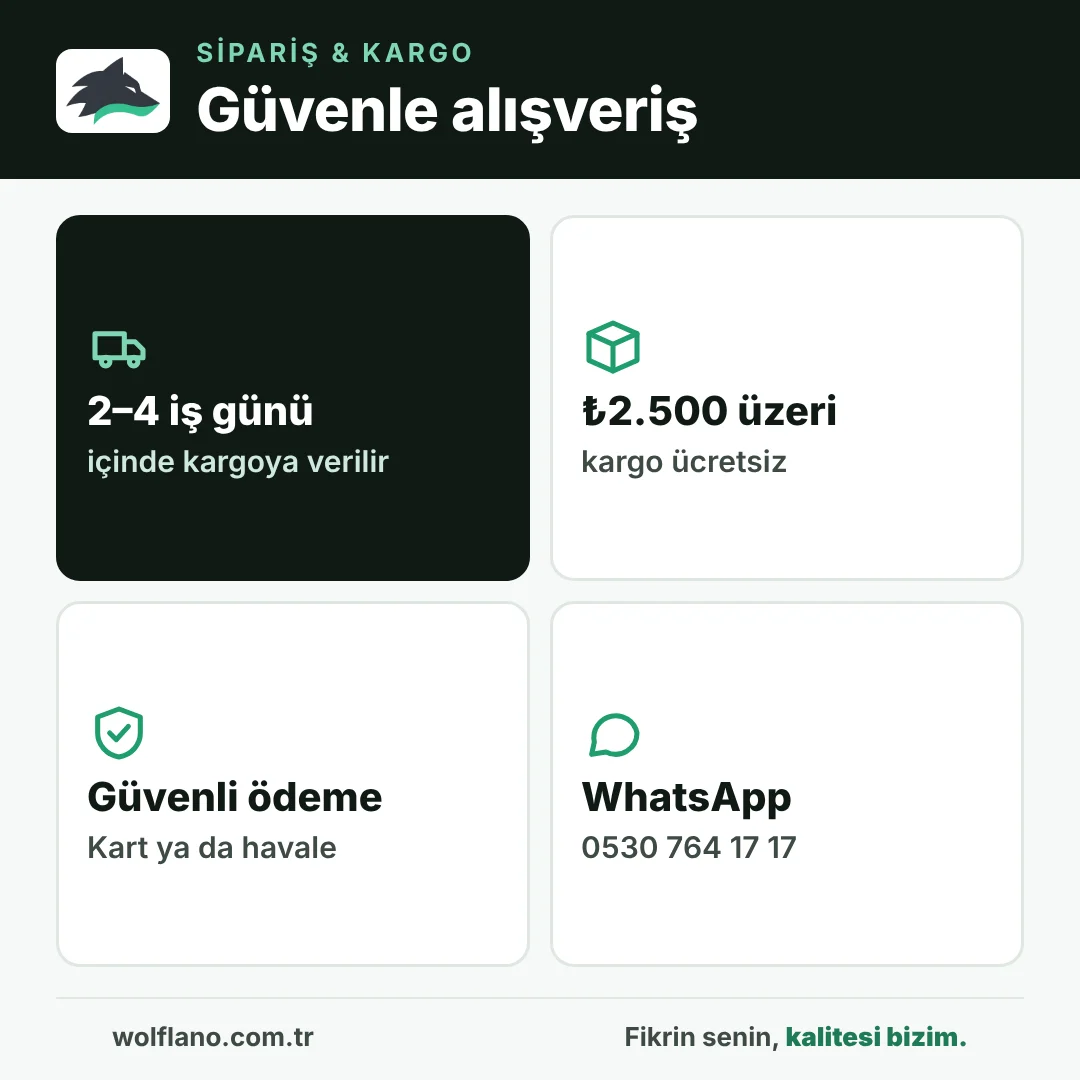
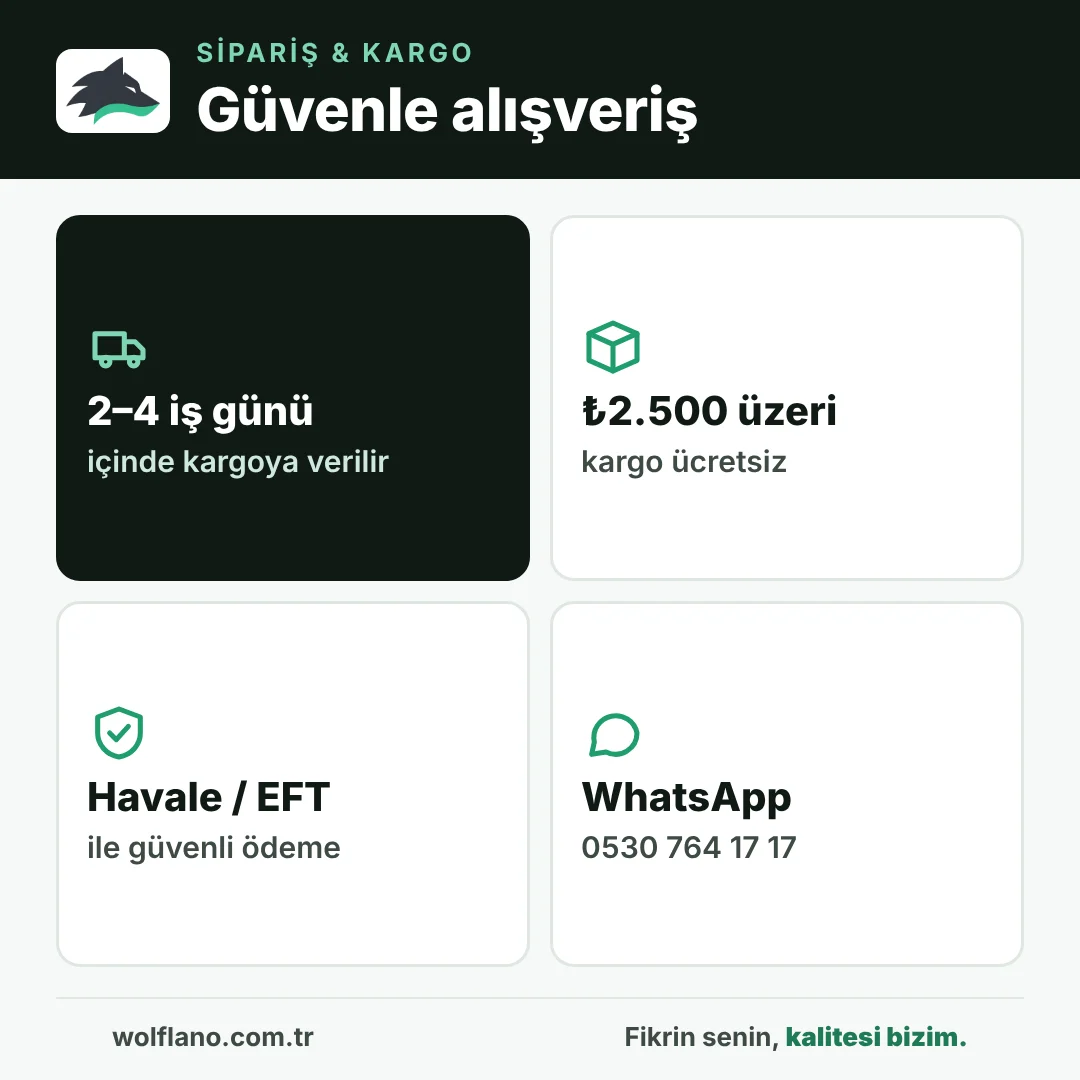
Güven bilgileri: ödeme yolu doğru yazıldı (Havale/EFT; kart ödemesi henüz yok), bilgi kartı güncellendi, alt bilgide iletişim/SSL/ödeme/iade satırı
Claude-Session: https://claude.ai/code/session_016F6JHP1duExg2vokrsbcYC

Changed region(s): [[0.0611, 0.7028, 0.3667, 0.7944]]

diff --git a/index.html b/index.html
@@ -1146,6 +1146,7 @@ body:has(.ttlanding) #ann{display:none!important}
 .bup .info .btn:not(.soft){height:50px;border-radius:10px;border:0;font:600 16px var(--ui)}
 .bup .ptop h1{font:600 20px var(--ui)!important;letter-spacing:0!important}
 .pd2 .pdrv{display:flex;align-items:center;gap:6px;font:500 13px var(--ui);color:var(--muted);text-decoration:none}.pd2 .pdrv b{color:var(--ink)}
+.ftrust{display:flex;flex-wrap:wrap;justify-content:center;gap:6px 14px;margin:14px 0 4px;font:400 12.5px var(--ui);color:var(--muted)}.ftrust a{color:inherit}.ftrust span{display:inline-flex;align-items:center;gap:5px}.ftrust svg{width:14px;height:14px;fill:none;stroke:currentColor;stroke-width:2;stroke-linecap:round}
 /* Ürün seç ve Baskı Tasarımları: sade, kurumsal sekmeler (ince gri çerçeve, seçili koyu) */
 .tsp .tsc button,.kc4.chips button{height:40px;padding:0 6px!important;border:1px solid #cfd8d2!important;border-radius:10px!important;background:#fff!important;color:var(--ink)!important;font:500 14px var(--ui)!important;box-shadow:none!important}
 .tsp .tsc button.on,.kc4.chips button.on{background:var(--ink)!important;border-color:var(--ink)!important;color:#fff!important}
@@ -3777,10 +3778,10 @@ function pdBadges(p){var b=[],q=pKal(p);if(q)b.push(q.indexOf('kpr')>=0?'<i clas
   if(p.dsg||hdStudio(p))b.push('<i class="bd bg">KİŞİYE ÖZEL TASARLANABİLİR</i>');if(p.tag==='Yeni'&&isNewP(p))b.push('<i class="bd bn">YENİ</i>');
   return b.length?'<div class="pdb">'+b.join('')+'</div>':'';}
 function pdInfoHTML(p){var L=pInfo(p);if(!L.length)return '';var T={'tee-alan':'Baskı alanları','nasil':'Nasıl tasarlanır','kargo':'Sipariş ve kargo','kargo-genel':'Sipariş ve kargo','kupa-alan':'Kupa baskı alanı'};
-  return '<section class="pdi" aria-label="Ürün bilgileri">'+L.map(function(n,i){return '<a href="assets/bilgi/'+n+'.webp?v=2" data-bilgi="'+i+'" data-bl="'+esc(L.join(','))+'" aria-label="'+esc(T[n]||'Bilgi')+' (büyük aç)"><img src="assets/bilgi/'+n+'.webp?v=2" alt="'+esc(T[n]||'Bilgi')+'" loading="lazy" width="1080" height="1080"></a>';}).join('')+'</section>';}
+  return '<section class="pdi" aria-label="Ürün bilgileri">'+L.map(function(n,i){return '<a href="assets/bilgi/'+n+'.webp?v=3" data-bilgi="'+i+'" data-bl="'+esc(L.join(','))+'" aria-label="'+esc(T[n]||'Bilgi')+' (büyük aç)"><img src="assets/bilgi/'+n+'.webp?v=3" alt="'+esc(T[n]||'Bilgi')+'" loading="lazy" width="1080" height="1080"></a>';}).join('')+'</section>';}
 /* Bilgi kartı görüntüleyici: tam ekran, sağa-sola kaydırılır, sağ üstte Kapat; ürün sayfası yerinde kalır */
 function bilgiOpen(L,k){var o=document.createElement('div');o.className='blv';o.setAttribute('role','dialog');o.setAttribute('aria-label','Ürün bilgileri');
-  o.innerHTML='<div class="blv-top"><span class="blv-n">'+(k+1)+' / '+L.length+'</span><button type="button" class="blv-x" aria-label="Kapat">✕</button></div><div class="blv-t">'+L.map(function(n){return '<div class="blv-s"><img src="assets/bilgi/'+n+'.webp?v=2" alt=""></div>';}).join('')+'</div><div class="blv-d">'+L.map(function(_,i){return '<i'+(i===k?' class="on"':'')+'></i>';}).join('')+'</div>';
+  o.innerHTML='<div class="blv-top"><span class="blv-n">'+(k+1)+' / '+L.length+'</span><button type="button" class="blv-x" aria-label="Kapat">✕</button></div><div class="blv-t">'+L.map(function(n){return '<div class="blv-s"><img src="assets/bilgi/'+n+'.webp?v=3" alt=""></div>';}).join('')+'</div><div class="blv-d">'+L.map(function(_,i){return '<i'+(i===k?' class="on"':'')+'></i>';}).join('')+'</div>';
   document.body.appendChild(o);document.documentElement.style.overflow='hidden';var t=o.querySelector('.blv-t');t.scrollLeft=k*t.clientWidth;
   t.addEventListener('scroll',function(){var i=Math.round(t.scrollLeft/t.clientWidth);o.querySelector('.blv-n').textContent=(i+1)+' / '+L.length;[].forEach.call(o.querySelectorAll('.blv-d i'),function(d,j){d.classList.toggle('on',j===i);});},{passive:true});
   var close=function(){o.remove();document.documentElement.style.overflow='';document.removeEventListener('keydown',kd);};
@@ -3801,7 +3802,7 @@ function pdView(p){try{if(RV.list===null&&!RV.busy)rvLoad();}catch(_){}
    (zs.length?szBlock(zs,szTable(szKind((p.type||'')+' '+(p.name||'')),pCut(p),zs)):'')+stk(p)+
    (so?aysl('Bu ürün şu an tükendi. Benzerini ister misin?','Bu ürün tükenmiş, benzer bir ürün önerir misin?'):'')+
    '<div class="pda">'+add+'</div><div class="pdl">'+links.join('')+'</div>'+
-   '<ul class="pdt"><li>'+PD_IC.trk+'<span><b>2–4 iş gününde kargoda</b>Özenle paketlenir, kargo takip bilgisi gönderilir</span></li><li>'+PD_IC.pen+'<span><b>Kişiye özel üretim</b>Ekranda gördüğün tasarım basılır</span></li><li>'+PD_IC.shd+'<span><b>Güvenli ödeme</b>Kartla ya da havaleyle</span></li></ul>'+
+   '<ul class="pdt"><li>'+PD_IC.trk+'<span><b>2–4 iş gününde kargoda</b>Özenle paketlenir, kargo takip bilgisi gönderilir</span></li><li>'+PD_IC.pen+'<span><b>Kişiye özel üretim</b>Ekranda gördüğün tasarım basılır</span></li><li>'+PD_IC.shd+'<span><b>Havale / EFT ile ödeme</b>Banka bilgileri sipariş onayında gönderilir</span></li></ul>'+
    ((desc||bt||pn)?'<section class="pds"><h2>Ürün açıklaması</h2>'+(desc?'<p>'+esc(desc)+'</p>':'')+bt+(pn?'<div class="pnote"><b>'+esc(TX('pnoteTitle'))+'</b><p>'+esc(pn)+'</p></div>':'')+'</section>':'')+
    (ad?'<div class="pdadm">'+((p.adesign||p.dsg)&&sbAdmin()?'<a href="studyo.html?duzenle='+encodeURIComponent(p.id)+'">✎ Stüdyoda düzenle</a>':'')+'<button type="button" class="pdel" data-pdel="'+esc(p.id)+'" data-pback="1">🗑 Bu ürünü sil</button><small>yalnız sen görürsün</small></div>':'')+
    '</div>'+pdInfoHTML(p)+'</div></div>'+
@@ -3848,7 +3849,7 @@ function anaYeni(){akpStart();setTimeout(anVidWatch,300);
   var trust='<section class="an-tr"><div class="an-w"><ul>'+
     '<li><svg viewBox="0 0 24 24"><path d="M3 7h11v9H3zM14 10h4l3 3v3h-7z"/><circle cx="7" cy="17.5" r="1.6"/><circle cx="17.5" cy="17.5" r="1.6"/></svg><span><b>2–4 iş günü</b>kargoda</span></li>'+
     '<li><svg viewBox="0 0 24 24"><path d="M3 7l9-4 9 4v10l-9 4-9-4z"/><path d="M3 7l9 4 9-4M12 11v10"/></svg><span><b>'+(fr?tl(fr)+' üzeri':'Özenle')+'</b>'+(fr?'kargo ücretsiz':'paketlenir')+'</span></li>'+
-    '<li><svg viewBox="0 0 24 24"><path d="M12 3l8 3v6c0 4.5-3.4 8.2-8 9-4.6-.8-8-4.5-8-9V6z"/><path d="M8.5 12l2.5 2.5 4.5-5"/></svg><span><b>Güvenli ödeme</b>kart ya da havale</span></li>'+
+    '<li><svg viewBox="0 0 24 24"><path d="M12 3l8 3v6c0 4.5-3.4 8.2-8 9-4.6-.8-8-4.5-8-9V6z"/><path d="M8.5 12l2.5 2.5 4.5-5"/></svg><span><b>Havale / EFT</b>ile güvenli ödeme</span></li>'+
     '<li><svg viewBox="0 0 24 24"><path d="M4 20h4L19 9l-4-4L4 16z"/><path d="M13.5 6.5l4 4"/></svg><span><b>Kişiye özel</b>siparişe özel üretim</span></li>'+
     '</ul></div></section>';
   return '<div class="an">'+top+
@@ -3997,6 +3998,9 @@ function footRender(){var f=$('#fdyn');if(!f)return;var C=CONTACT||{},h='';
   if(ig)so+='<a href="'+esc(ig)+'" target="_blank" rel="noopener" aria-label="Instagram"><svg viewBox="0 0 24 24" fill="none" stroke="currentColor" stroke-width="1.8" stroke-linecap="round" stroke-linejoin="round"><rect x="3" y="3" width="18" height="18" rx="5"/><circle cx="12" cy="12" r="4.2"/><circle cx="17.4" cy="6.6" r=".9" fill="currentColor" stroke="none"/></svg></a>';
   if(tt)so+='<a href="'+esc(tt)+'" target="_blank" rel="noopener" aria-label="TikTok"><svg viewBox="0 0 24 24" fill="currentColor"><path d="M16.6 3c.4 2.3 1.8 3.8 4.1 4v3.1c-1.5.1-2.9-.4-4.1-1.2v6.4c0 3.5-2.6 5.9-5.8 5.9-3.3 0-5.8-2.5-5.8-5.7 0-3.4 2.9-6 6.4-5.6v3.2c-1.6-.4-3.2.8-3.2 2.4 0 1.4 1.1 2.5 2.6 2.5 1.6 0 2.6-1.1 2.6-2.9V3z"/></svg></a>';
   if(so)h+='<div class="fsoc">'+so+'</div>';
+  /* Güven bilgisi: iletişim, ödeme yolu, güvenli bağlantı, yasal metinler */
+  h+='<div class="ftrust">'+(C.mail?'<a href="mailto:'+esc(C.mail)+'">'+esc(C.mail)+'</a>':'')+(C.adres?'<span>'+esc(C.adres)+'</span>':'')+
+    '<span><svg viewBox="0 0 24 24"><rect x="5" y="11" width="14" height="9" rx="2"/><path d="M8 11V8a4 4 0 0 1 8 0v3"/></svg>Güvenli bağlantı (SSL)</span><span>Ödeme: Havale / EFT</span><span>Hatalı üretimde ücretsiz yenileme · <a href="#iade">iade koşulları</a></span></div>';
   f.innerHTML=h;}
 var KBT=null;
 /* Koleksiyon banner'ı: yönetimden görsel yüklenmediyse Wolflano'nun kendi tasarım banner'ı (koleksiyondaki gerçek ürün fotoğraflarıyla) */
